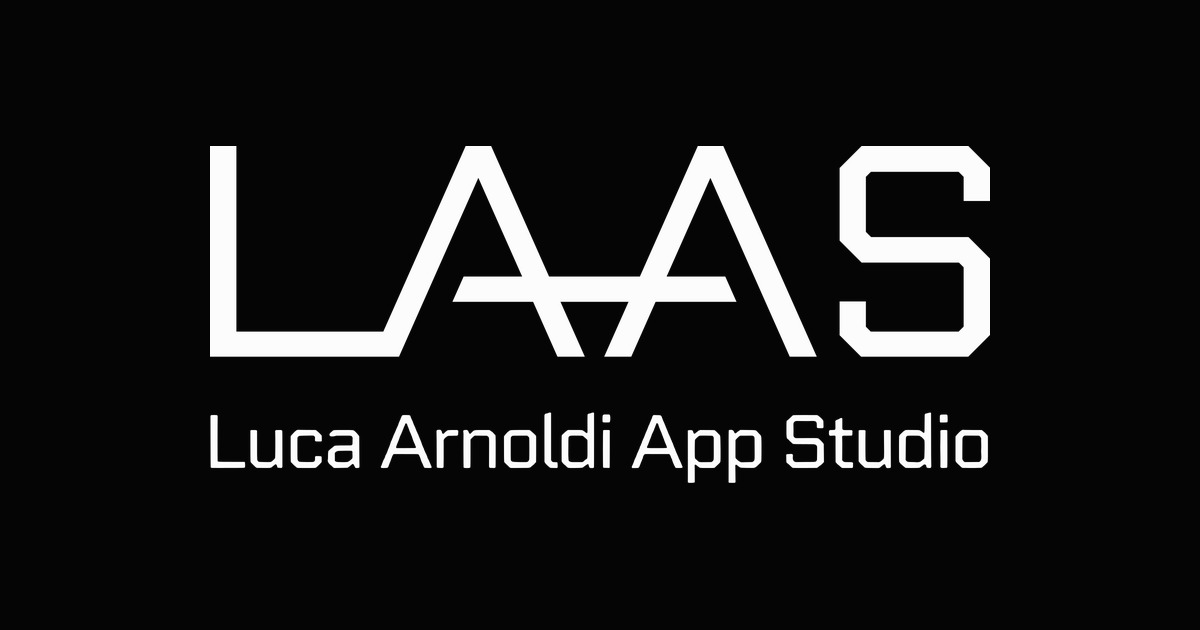
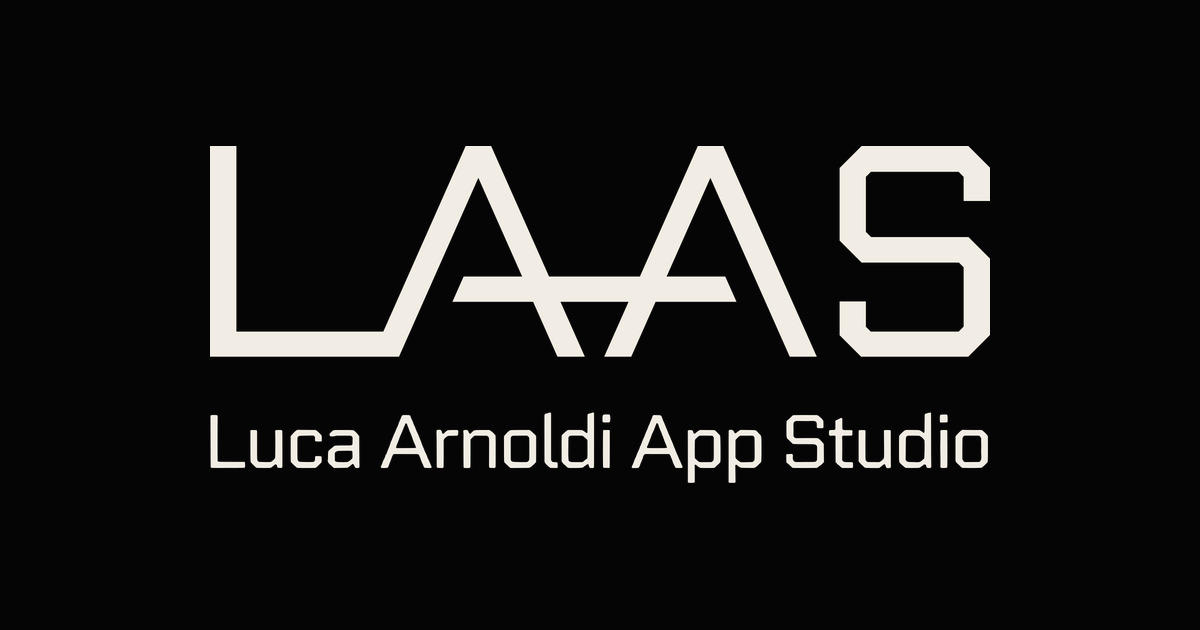
Wortmarke im OG-Bild auf das Marken-Off-White ziehen
Sie stand auf #fcfcfc, dem Textweiss. Auf der schwarzen Iris in
"Ueber mich" traegt dieselbe Marke aber #f2ede4 — das waermere
--color-panel. Die geteilte Vorschau spricht damit dieselbe Sprache
wie die Seite.

Claude-Session: https://claude.ai/code/session_01Rtd5h1p8a3rPEJNLERqppB

diff --git a/portfolio/src/app/layout.tsx b/portfolio/src/app/layout.tsx
@@ -52,8 +52,9 @@ export const metadata: Metadata = {
     // Eigenes JPEG statt des Bühnenbilds: Link-Vorschauen laufen über fremde
     // Scraper, die WebP teils nicht lesen und grosse Dateien verwerfen.
     // 1200x630 ist das Format, das LinkedIn, Slack und X erwarten.
-    // Inhalt: die Wortmarke aus laas-logo-full.svg, weiss auf #050505, mittig
-    // mit reichlich Rand — Telegram und Co. runden die Ecken ab.
+    // Inhalt: die Wortmarke aus laas-logo-full.svg im Marken-Off-White
+    // (#f2ede4, --color-panel) auf #050505, mittig mit reichlich Rand —
+    // Telegram und Co. runden die Ecken ab.
     images: [
       {
         url: "/og-image.jpg",
